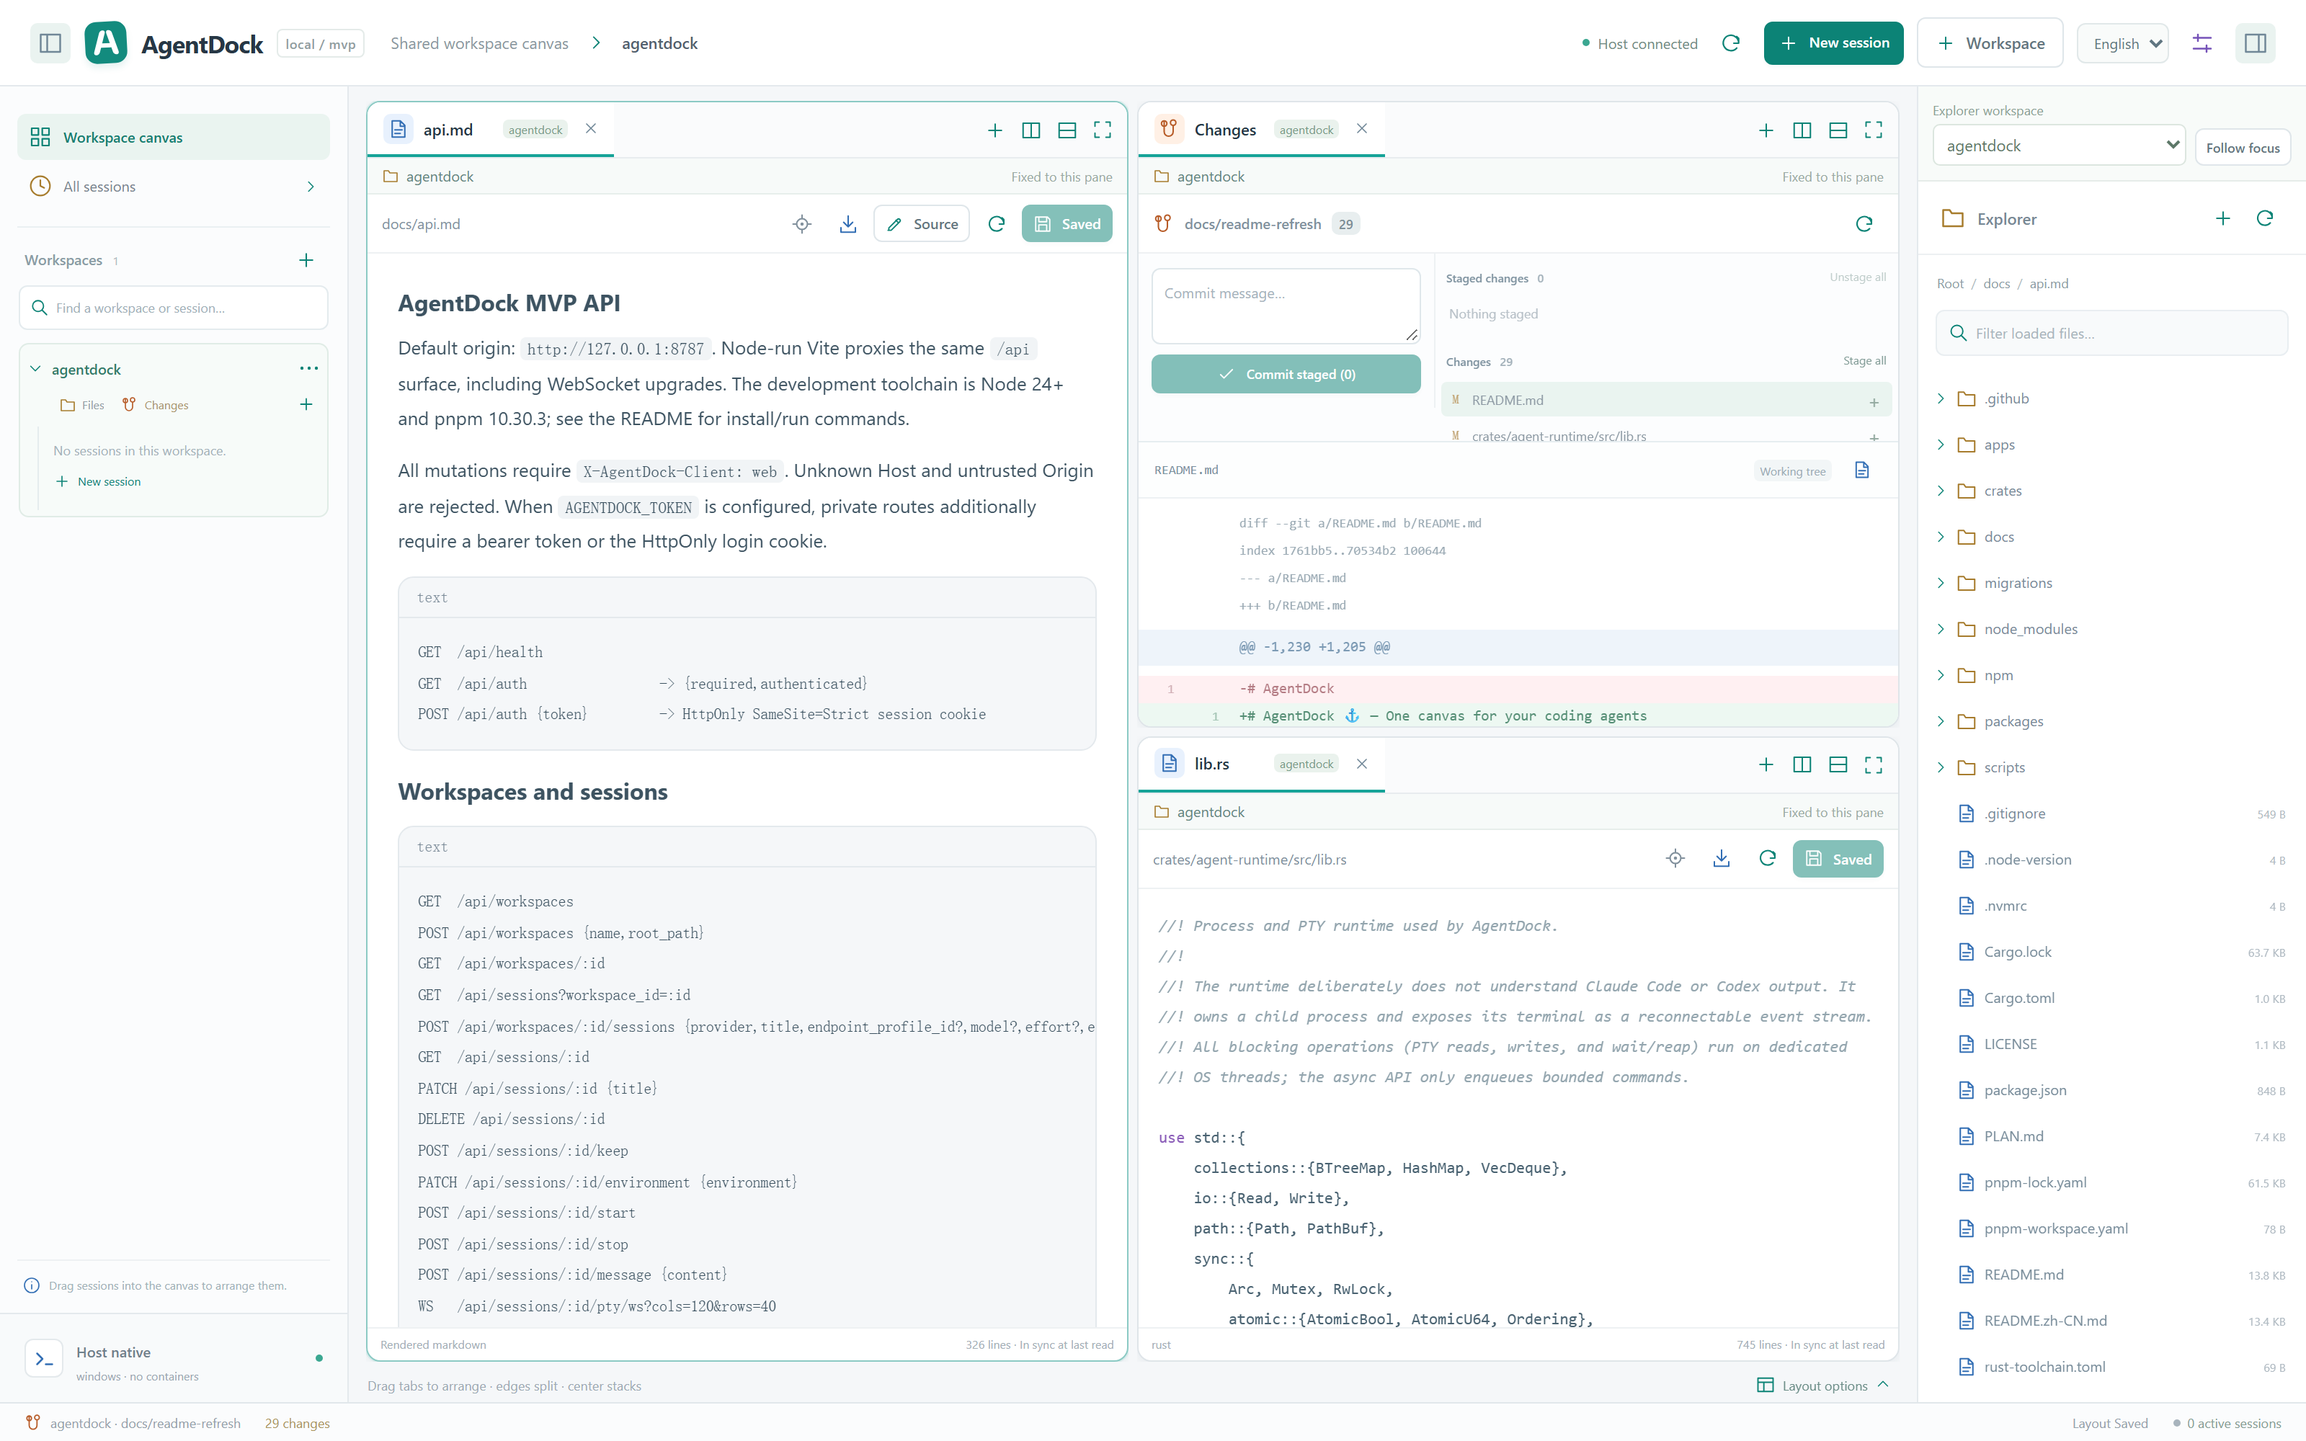
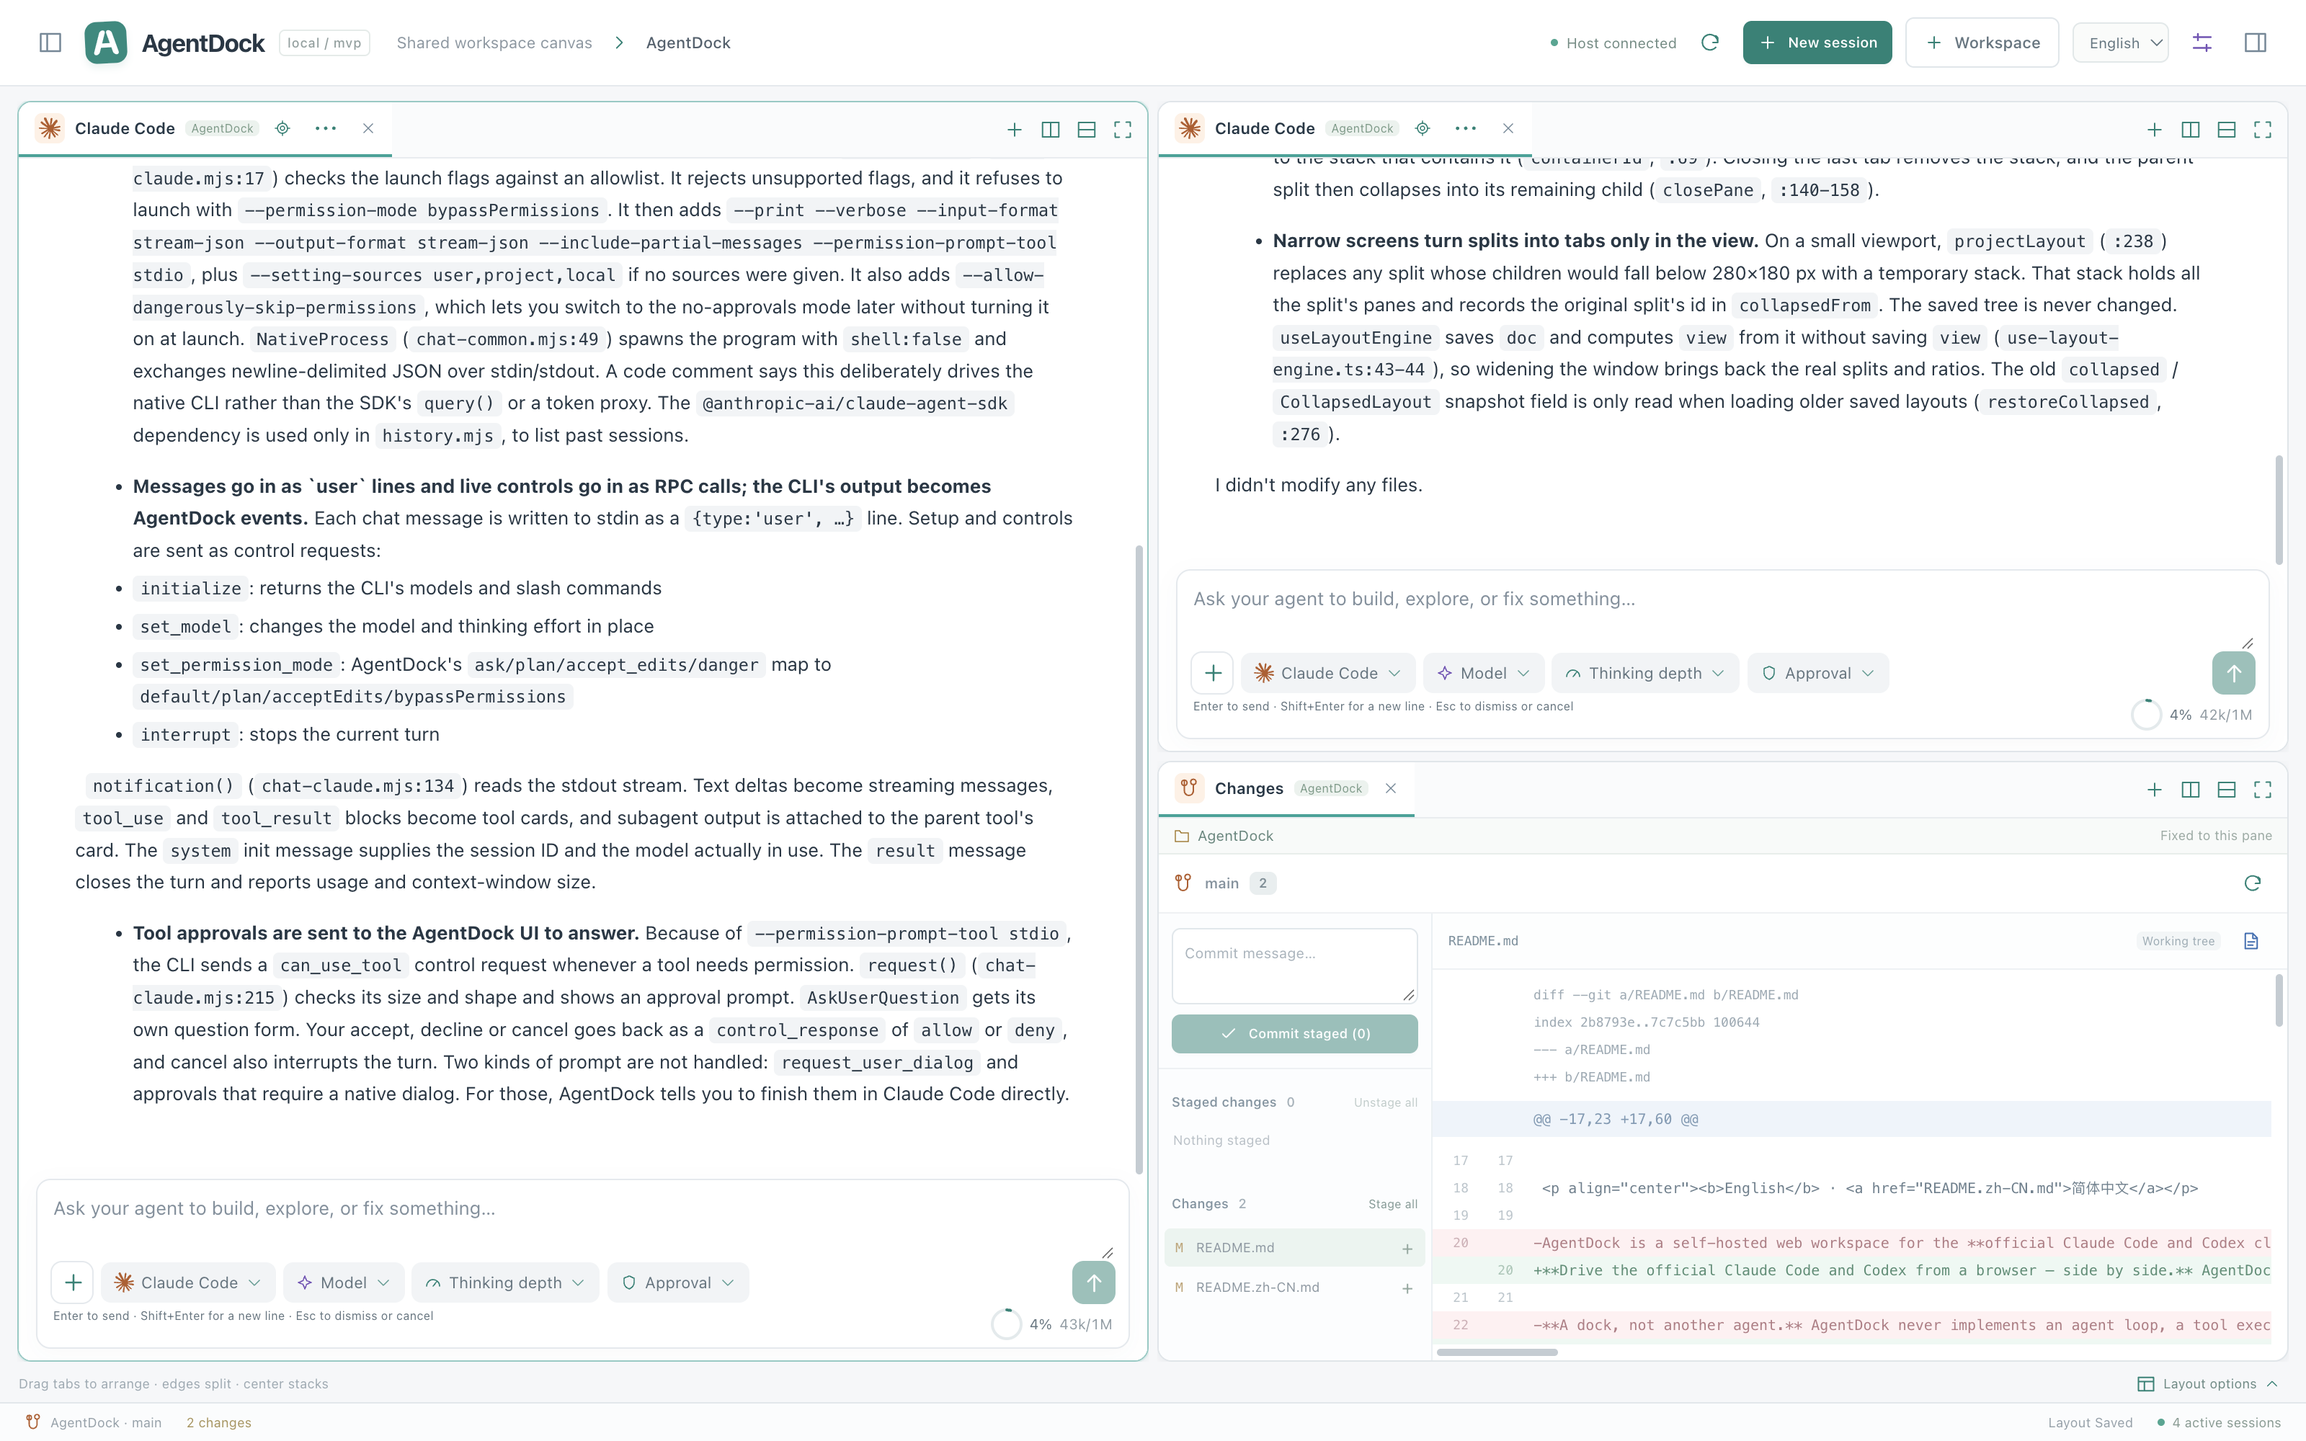
Lead the README with why, and show it
The README opened on what AgentDock is built from and left the reasons to
use it for a feature list further down. It now opens with six: the
official clients driven as they are, so a client upgrade is a new model
in the menu; several agents on one canvas; a conversation that can be
read rather than scrolled; carrying on from a phone; files and Git beside
the agent; and nothing to migrate. The detailed list stays below them.

Each reason has a screenshot where one says more than a sentence. They
were taken from a separate preview instance on port 8788 against this
repository, with real Claude Code turns asked read-only questions; the
approval-card view is still the design-lab fixture and says so.

diff --git a/README.md b/README.md
@@ -17,22 +17,59 @@
 
 <p align="center"><b>English</b> · <a href="README.zh-CN.md">简体中文</a></p>
 
-AgentDock is a self-hosted web workspace for the **official Claude Code and Codex clients**. It runs on the machine where your code lives — a laptop, a dev box, a server behind SSH — and gives every agent session, file, diff and terminal a place on one recursive split/tab canvas you can open from any browser. Rust server, Vue 3 client, one binary, no Docker.
+**Drive the official Claude Code and Codex from a browser — side by side.** AgentDock runs on the machine where your code lives — a laptop, a dev box, a server behind SSH — and gives every agent session, file, diff and terminal a place on one canvas you can split any way you like, from any browser, phone included. One `npm i -g`, one binary, no Docker.
 
-**A dock, not another agent.** AgentDock never implements an agent loop, a tool executor or a permission system of its own. Codex is driven through its official `app-server`; Claude Code through the CLI's own `stream-json` control interface. Your logins, models, hooks and permission prompts stay native — AgentDock renders an approval as a card and forwards your decision, and it never answers one for you or reads a client's credentials. When the official clients gain a feature, it arrives through the adapter rather than a reimplementation. The reasoning is in [Product boundary](docs/product-boundary.md).
-
-[Install](#install) · [Quick start](#quick-start) · [Highlights](#highlights) · [How it fits together](#how-it-fits-together) · [Security](#security) · [Docs](#documentation) · [Releases](https://github.com/wnzzer/agentdock/releases)
-
+[Why AgentDock](#why-agentdock) · [Install](#install) · [Quick start](#quick-start) · [Features](#features) · [How it fits together](#how-it-fits-together) · [Security](#security) · [Docs](#documentation) · [Releases](https://github.com/wnzzer/agentdock/releases)
 
 <p align="center">
-  <img src="docs/assets/screenshot-canvas.png" alt="The AgentDock canvas: a rendered Markdown file, the Git changes pane and a Rust source file docked side by side, with the file explorer on the right." width="100%">
-  <br><sub>The shared canvas — files, Git and code docked side by side. A real session against this repository.</sub>
+  <img src="docs/assets/screenshot-canvas.png" alt="The AgentDock canvas: two agent sessions reading this repository to answer different questions, and Git changes with a diff bottom right." width="100%">
+  <br><sub>Two agent sessions working side by side, with the Git diff right there. A real session against this repository.</sub>
 </p>
+
+## Why AgentDock
+
+### 1. The official clients, untouched — new models on day one
+
+AgentDock is **not another agent**, and not a reimplementation of one. Codex is driven through its official `app-server`; Claude Code through the CLI's own `stream-json` control interface. Logins, models, hooks, `CLAUDE.md` and permission prompts all stay native — AgentDock renders them as cards and forwards your decision, and it never answers one for you or reads a client's credentials. The reasoning is in [Product boundary](docs/product-boundary.md).
+
+That is why the model list is **asked of the client itself**: upgrade the client and new models such as Fable or Opus 5.5 show up in the menu. One that has not shown up yet can be used by typing its ID.
+
+<p align="center">
+  <img src="docs/assets/screenshot-models.png" alt="The model menu: Default, Opus, Fable, Sonnet and Haiku, all reported by the local Claude Code client, with a field for typing any model ID at the bottom." width="720">
+</p>
+
+### 2. Many agents, one canvas
+
+Recursive horizontal and vertical splits, drag-to-edge docking, centre-drop tabs, and `1:1` / `2×2` / `1:2:1` presets. Claude Code and Codex can work at the same time, sessions from different projects can sit side by side, and every file and Git pane stays bound to its own repository. **Closing a pane never ends its process**, and layouts live on the server, so another browser opens exactly what you left.
+
+### 3. A conversation you can read, not terminal scrollback
+
+Messages, folding tool cards, native approval and question cards, a context-usage ring and turn status at a glance. **Interrupt** and **End session** are separate actions; input is persisted before it is sent, so a dropped connection never runs anything twice. You can start typing while the client is still starting up.
 
 <p align="center">
   <img src="docs/assets/screenshot-chat.png" alt="The structured conversation view: folding tool cards, a native approval card and the composer with a context ring." width="100%">
-  <br><sub>Structured conversations: folding tool cards and native approval cards. Rendered by the built-in read-only design lab from local fixtures — no client or model involved.</sub>
+  <br><sub>Tool cards and native approval cards. Rendered by the built-in read-only design lab from local fixtures — no client or model involved.</sub>
 </p>
+
+### 4. Walk away from the desk, keep going on your phone
+
+The browser is the client. With `agentdock --lan` or one SSH port forward, you can follow an agent, approve a permission and ask the next question from your phone; the composer and command list stay above the on-screen keyboard. The processes run on the host, so closing the page or losing the network changes nothing — come back and carry on.
+
+<p align="center">
+  <img src="docs/assets/screenshot-mobile.png" alt="The conversation view at phone width: messages, tool cards and the composer at the bottom." width="360">
+</p>
+
+### 5. Files and Git within reach
+
+A lazy file tree, workspace-wide search that honours `.gitignore`, and `@path` completion in the composer; rendered Markdown, conflict-checked editing, and image / video / PDF previews. Git is a top-level pane: read the diff, stage per file and commit without switching to a terminal to check what the agent changed.
+
+<p align="center">
+  <img src="docs/assets/screenshot-files.png" alt="A syntax-highlighted Rust source file next to the Git changes pane, whose diff shows edits to the README." width="100%">
+</p>
+
+### 6. Nothing to migrate, and your data stays yours
+
+*Endpoint profiles → Import existing configuration* references your existing `~/.claude` or `~/.codex`, so sessions reuse the login and settings you already have without copying a credential. Or create isolated custom endpoints whose API keys are stored only as `env:` references. All state lives in `~/.agentdock/` on your own machine, with no telemetry.
 
 ## Install
 
@@ -75,7 +112,7 @@ agentdock stop
 agentdock serve      # foreground — what systemd or another supervisor should run
 ```
 
-## Highlights
+## Features
 
 ### 🧩 A canvas that docks anything
 

diff --git a/README.zh-CN.md b/README.zh-CN.md
@@ -17,22 +17,59 @@
 
 <p align="center"><a href="README.md">English</a> · <b>简体中文</b></p>
 
-AgentDock 是一个自托管的 Web 工作台，服务于**官方 Claude Code 与 Codex 客户端**。它运行在代码所在的那台机器上——笔记本、开发机、SSH 后面的服务器都行——把每个 Agent 会话、文件、diff 和终端放进同一块可无限分屏/分页的画布里，任何浏览器都能打开。Rust 服务端、Vue 3 客户端、单个二进制，不需要 Docker。
+**在浏览器里，同时驾驭官方 Claude Code 与 Codex。** AgentDock 跑在代码所在的那台机器上——笔记本、开发机、SSH 后面的服务器——把每个 Agent 会话、文件、diff 和终端放进同一块可以随意分屏的画布，任何浏览器都能打开，手机也行。一条 `npm i -g`，一个二进制，不需要 Docker。
 
-**是船坞，不是又一个 Agent。** AgentDock 从不自己实现 Agent 循环、工具执行器或权限系统。Codex 通过官方 `app-server` 驱动，Claude Code 通过 CLI 自带的 `stream-json` 控制接口驱动。你的登录、模型、hooks 和权限确认全部保持原生——AgentDock 只是把审批渲染成卡片并转发你的决定，绝不替你回答，也不读取客户端的凭据。官方客户端出了新功能，通过适配层透传进来，而不是再抄一遍。背后的取舍见[产品边界](docs/product-boundary.md)。
-
-[安装](#安装) · [快速开始](#快速开始) · [亮点](#亮点) · [整体结构](#整体结构) · [安全](#安全) · [文档](#文档) · [Releases](https://github.com/wnzzer/agentdock/releases)
-
+[为什么是 AgentDock](#为什么是-agentdock) · [安装](#安装) · [快速开始](#快速开始) · [功能一览](#功能一览) · [整体结构](#整体结构) · [安全](#安全) · [文档](#文档) · [Releases](https://github.com/wnzzer/agentdock/releases)
 
 <p align="center">
-  <img src="docs/assets/screenshot-canvas.zh-CN.png" alt="AgentDock 画布：渲染后的 Markdown、Git 变更面板和 Rust 源码并排停靠，右侧是文件浏览器。" width="100%">
-  <br><sub>共享画布——文件、Git 和代码并排停靠。真实运行、打开的就是本仓库。</sub>
+  <img src="docs/assets/screenshot-canvas.zh-CN.png" alt="AgentDock 画布：两个 Agent 会话各自读代码回答不同的问题，右下是 Git 变更与 diff。" width="100%">
+  <br><sub>两个 Agent 会话并排工作，Git diff 就在旁边。真实运行、打开的就是本仓库。</sub>
 </p>
+
+## 为什么是 AgentDock
+
+### 1. 官方客户端，原汁原味——新模型当天就能用
+
+AgentDock **不是又一个 Agent**，也不是套壳重写。Codex 通过官方 `app-server` 驱动，Claude Code 通过 CLI 自带的 `stream-json` 控制接口驱动。登录、模型、hooks、`CLAUDE.md`、权限确认全部是原生的——AgentDock 只把它们渲染成卡片，把你的决定转发回去，绝不替你回答，也不读客户端的凭据。背后的取舍见[产品边界](docs/product-boundary.md)。
+
+所以模型列表是**直接问客户端要的**：客户端一升级，Fable、Opus 5.5 这样的新模型就出现在菜单里；还没出现的，也能直接输入模型 ID 先用上。
+
+<p align="center">
+  <img src="docs/assets/screenshot-models.zh-CN.png" alt="模型菜单：Default、Opus、Fable、Sonnet、Haiku 等选项都来自本机 Claude Code 客户端，底部可以直接输入模型 ID。" width="720">
+</p>
+
+### 2. 多个 Agent，一块画布
+
+横竖递归分屏、拖到边缘停靠、拖到中间叠成页签、`1:1` / `2×2` / `1:2:1` 一键预设。Claude Code 和 Codex 可以同时各干各的，不同项目的会话也能并排——而每个文件、Git 面板始终绑定自己的仓库。**关掉面板不会结束进程**，布局保存在服务端，换个浏览器打开还是原样。
+
+### 3. 看得懂的对话，而不是终端滚屏
+
+消息、可折叠的工具卡片、原生审批与提问卡片、上下文用量环、轮次状态一目了然。**中断**和**结束会话**是两个动作；输入先落库再发送，断线也不会重复执行。打开会话时客户端还在握手，也可以先打字。
 
 <p align="center">
   <img src="docs/assets/screenshot-chat.zh-CN.png" alt="结构化对话视图：可折叠的工具卡片、原生审批卡片，以及带上下文环的输入框。" width="100%">
-  <br><sub>结构化对话：可折叠的工具卡片与原生审批卡片。由内置的只读 design lab 用本地 fixture 渲染，不涉及任何客户端或模型。</sub>
+  <br><sub>工具卡片与原生审批卡片。由内置的只读 design lab 用本地 fixture 渲染，不涉及任何客户端或模型。</sub>
 </p>
+
+### 4. 离开电脑，在手机上接着干
+
+浏览器就是客户端。`agentdock --lan` 或一条 SSH 端口转发，就能在手机上看 Agent 进度、批准权限、追问下一步；键盘弹出时输入框和命令列表始终在键盘上方。进程跑在宿主机上，页面关了、网断了都不影响，回来接着聊。
+
+<p align="center">
+  <img src="docs/assets/screenshot-mobile.zh-CN.png" alt="手机宽度下的对话视图：消息、工具卡片和底部输入框。" width="360">
+</p>
+
+### 5. 文件与 Git 就在手边
+
+懒加载文件树、遵循 `.gitignore` 的全局搜索、输入框里 `@路径` 补全；Markdown 渲染预览、带冲突检测的编辑保存、图片/视频/PDF 预览。Git 是顶级面板：看 diff、按文件暂存、提交，不用切回终端检查 Agent 改了什么。
+
+<p align="center">
+  <img src="docs/assets/screenshot-files.zh-CN.png" alt="带语法高亮的 Rust 源码与 Git 变更面板并排，diff 显示对 README 的修改。" width="100%">
+</p>
+
+### 6. 零迁移，数据留在你手里
+
+在 *端点配置 → 导入现有配置* 里引用本机的 `~/.claude` / `~/.codex`，直接复用已有登录和设置，不复制任何凭据；也可以建相互隔离的自定义端点，API key 只存 `env:` 引用。状态全在你自己机器的 `~/.agentdock/`，没有任何遥测。
 
 ## 安装
 
@@ -75,7 +112,7 @@ agentdock stop
 agentdock serve      # 前台运行——交给 systemd 等进程管理器时用这个
 ```
 
-## 亮点
+## 功能一览
 
 ### 🧩 什么都能停靠的画布
 
